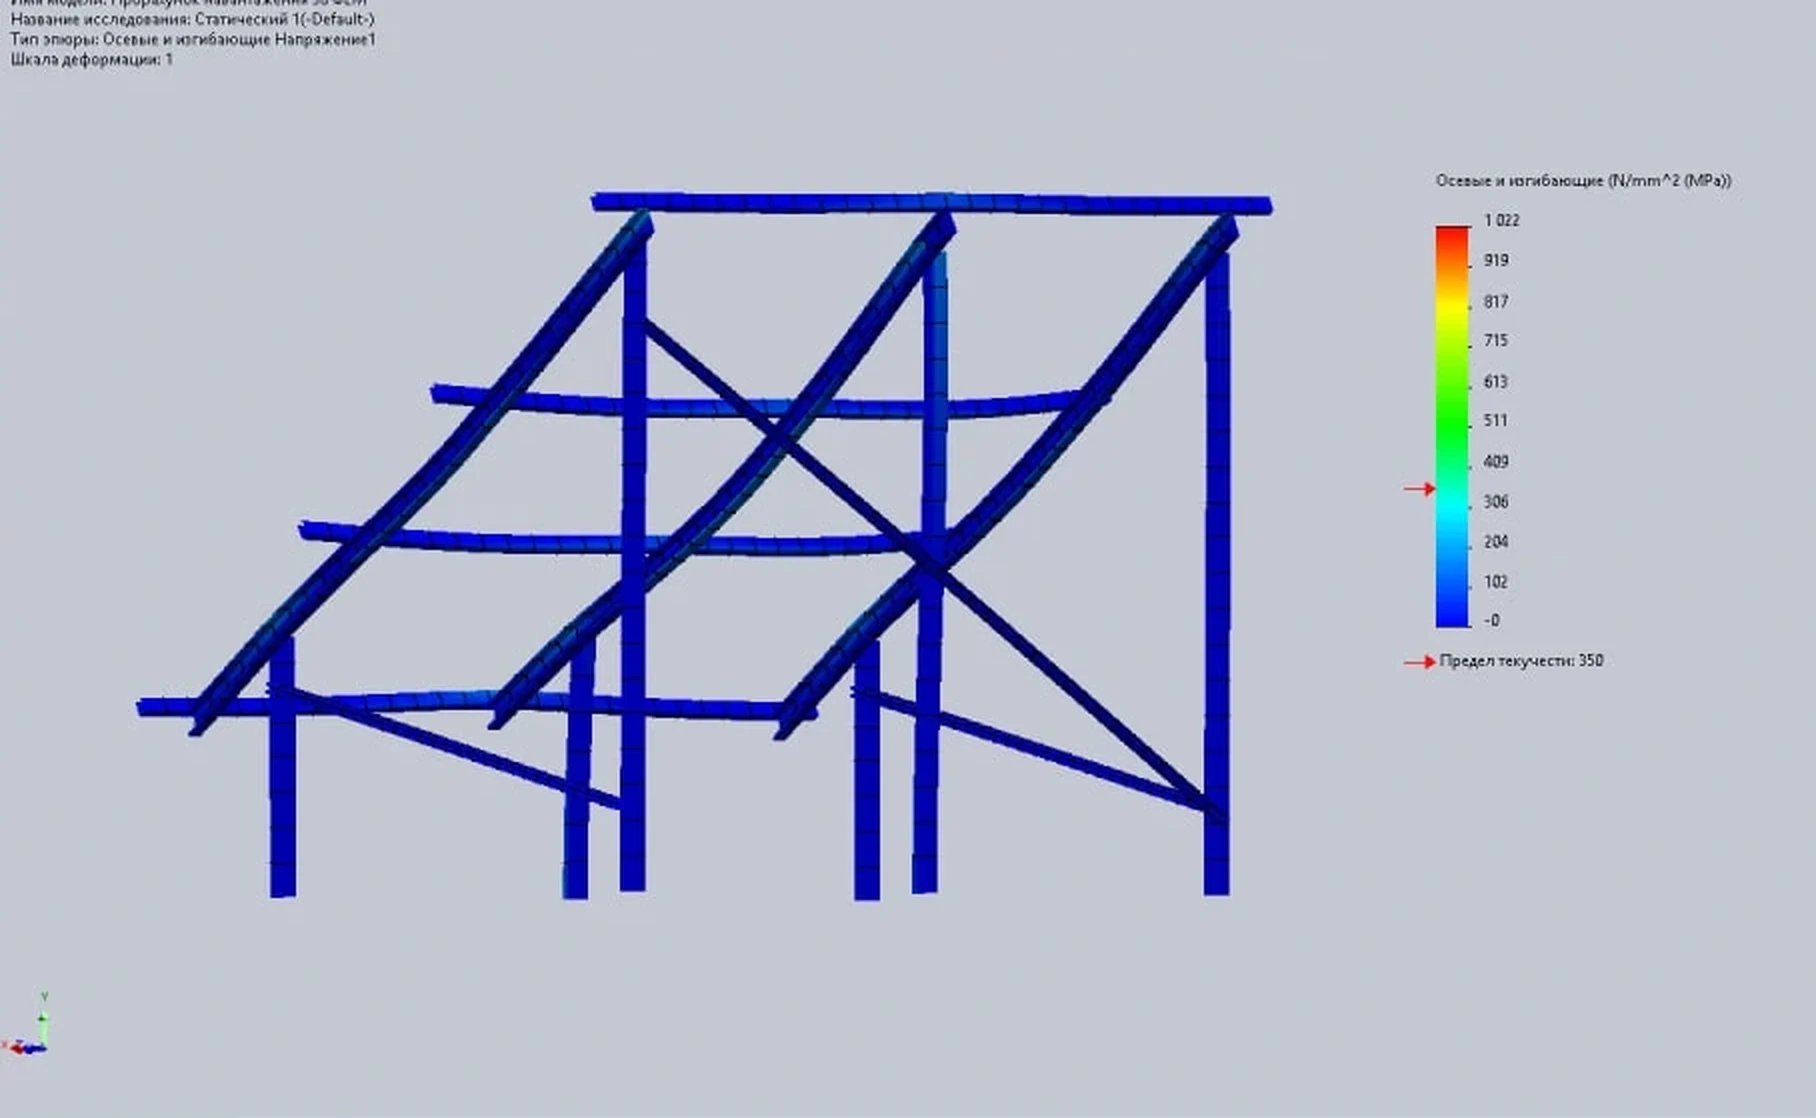
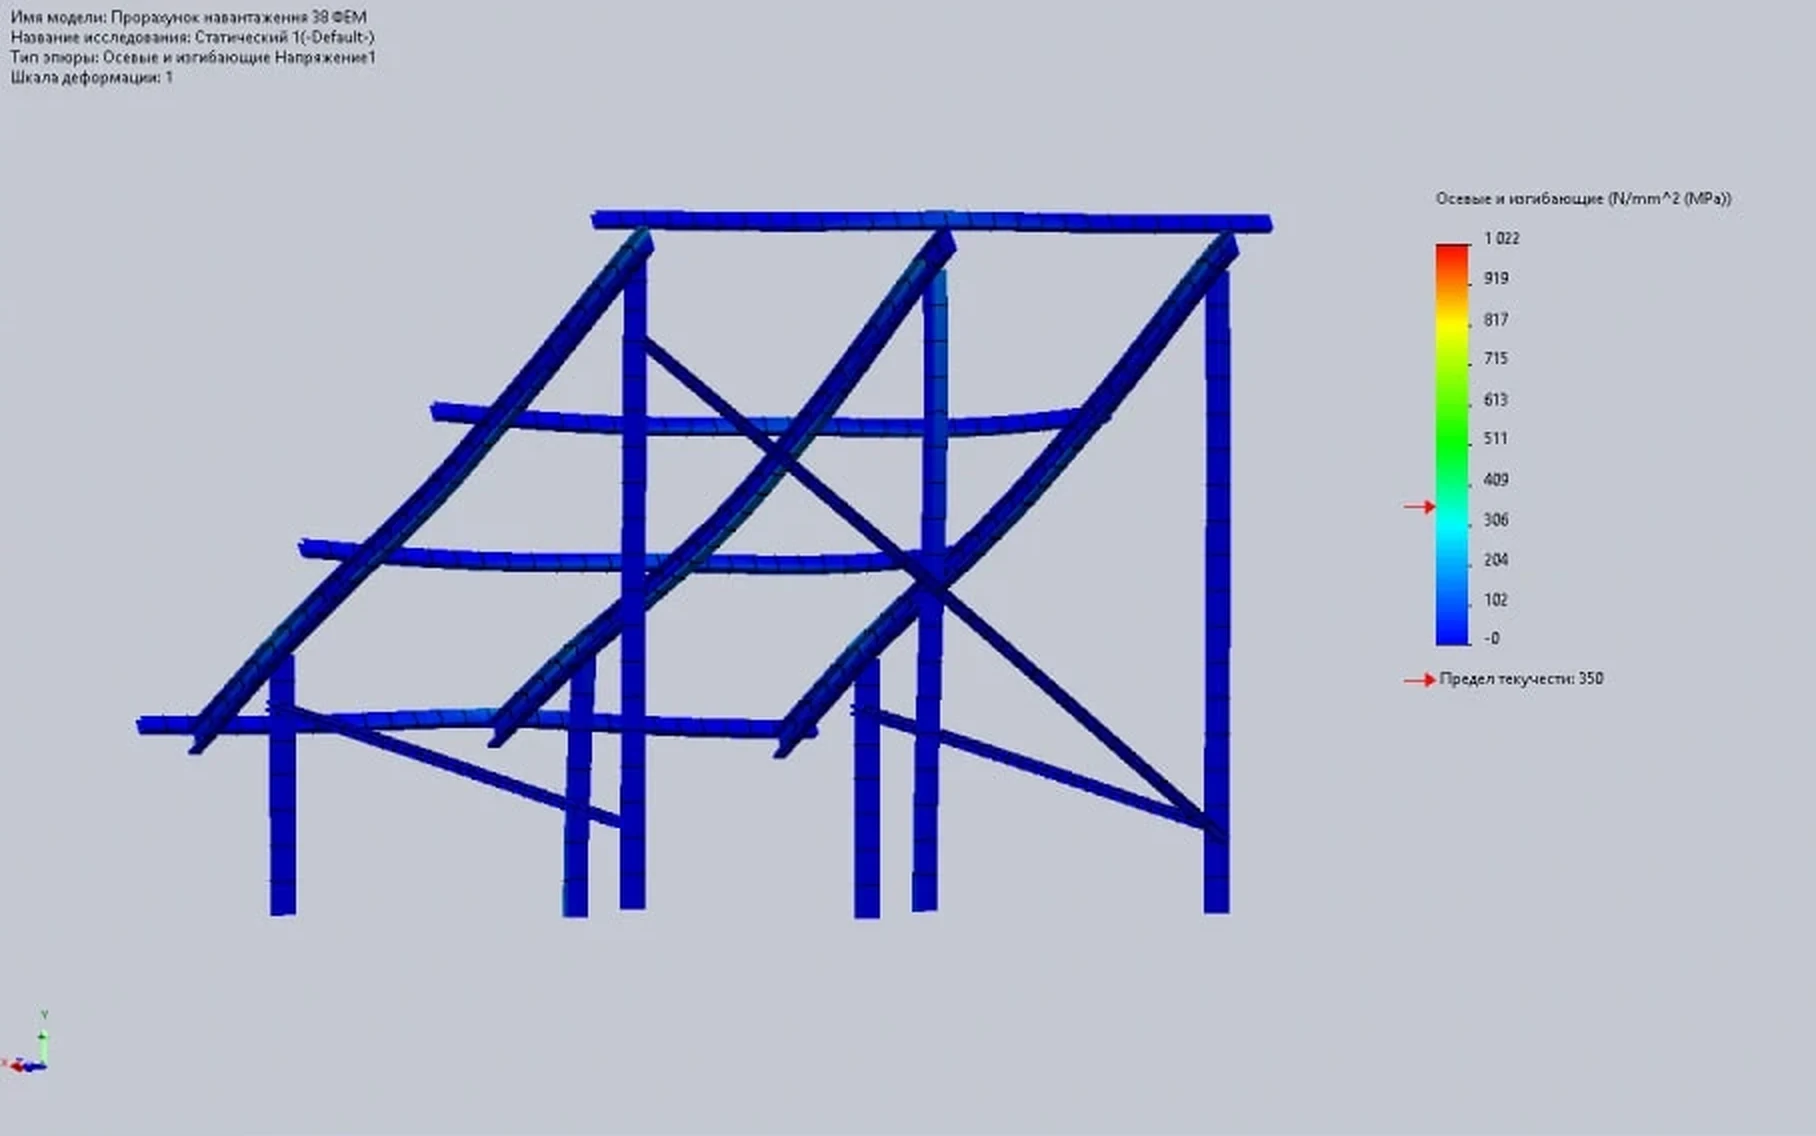
fix(visualization): знято два цехових фото з рейлу рендерів
fix(stage): епюра навантаження видно повністю — кроп не ріже підпис моделі,
наїзд розвернуто 0.97→1 замість 1.06→1 (overflow:hidden зрізав боки)

diff --git a/site/visualization.html b/site/visualization.html
@@ -140,9 +140,9 @@
         <div class="sheet-head" data-reveal>
             <div>
                 <div class="sheet-head__eyebrow">02 / SHOWREEL</div>
-                <h2 class="sheet-head__title">Двадцять виробів —<em>у студійному світлі.</em></h2>
+                <h2 class="sheet-head__title">Вісімнадцять виробів —<em>у студійному світлі.</em></h2>
             </div>
-            <div class="sheet-head__meta"><strong>DWG-303</strong><br>SELECTED WORK<br>20 FRAMES</div>
+            <div class="sheet-head__meta"><strong>DWG-303</strong><br>SELECTED WORK<br>18 FRAMES</div>
         </div>
 
         <div class="reel" data-reveal>
@@ -214,17 +214,9 @@
                 <img src="assets/services/reel/traktor.webp" alt="Вузол трактора — рендер KeyShot" width="1024" height="768" loading="lazy" decoding="async">
                 <figcaption class="reel__meta"><strong>Вузол трактора</strong><span>ПРОМИСЛОВЕ</span></figcaption>
             </figure>
-            <figure class="reel__cell" data-gallery="reel" data-title="Стілець металевий">
-                <img src="assets/services/reel/stilchyk.webp" alt="Стілець металевий — рендер KeyShot" width="1022" height="1280" loading="lazy" decoding="async">
-                <figcaption class="reel__meta"><strong>Стілець металевий</strong><span>ПРОМИСЛОВЕ</span></figcaption>
-            </figure>
             <figure class="reel__cell reel__cell--wide" data-gallery="reel" data-title="Труба вихлопної системи">
                 <img src="assets/services/reel/truba.webp" alt="Труба вихлопної системи — рендер KeyShot" width="1024" height="768" loading="lazy" decoding="async">
                 <figcaption class="reel__meta"><strong>Труба вихлопної системи</strong><span>ПРОМИСЛОВЕ</span></figcaption>
-            </figure>
-            <figure class="reel__cell" data-gallery="reel" data-title="Декоративна скульптура «Лев»">
-                <img src="assets/services/reel/lev.webp" alt="Декоративна скульптура «Лев» — рендер KeyShot" width="1280" height="1166" loading="lazy" decoding="async">
-                <figcaption class="reel__meta"><strong>Декоративна скульптура «Лев»</strong><span>ПРОМИСЛОВЕ</span></figcaption>
             </figure>
         </div>
 

diff --git a/site/js/services.js b/site/js/services.js
@@ -120,10 +120,13 @@
                 tl.to(prev, { opacity: 0, duration: FADE }, at);
                 tl.fromTo([shot, card, over].filter(Boolean), { opacity: 0 }, { opacity: 1, duration: FADE }, at);
                 /* аркуш не наїжджає — він лягає на стіл, це робить addPlot */
-                if (!plot) tl.fromTo(shot, { scale: 1.06 }, { scale: 1, duration: FADE + HOLD }, at);
+                /* Масштаб іде знизу вгору (0.97 → 1), а не згори вниз.
+                   При 1.06 кадр вилазив за межі сцени, а .stage__viewport має
+                   overflow:hidden — боки картинки зрізало на весь час наїзду. */
+                if (!plot) tl.fromTo(shot, { scale: 0.97 }, { scale: 1, duration: FADE + HOLD }, at);
                 if (card) tl.fromTo(card, { y: 26 }, { y: 0, duration: FADE }, at);
             } else {
-                tl.fromTo(shot, { scale: 1.03 }, { scale: 1, duration: HOLD }, at);
+                tl.fromTo(shot, { scale: 0.985 }, { scale: 1, duration: HOLD }, at);
             }
 
             /* промальовування технічних ліній накладки */

diff --git a/site/services.html b/site/services.html
@@ -192,7 +192,7 @@
             </figure>
             <figure class="stage__shot" data-shot="1">
                 <img src="assets/services/renders/stage-02-ses-fea.webp"
-                     alt="Епюра осьових і згинальних напружень каркаса сонячної станції у SolidWorks Simulation" width="1816" height="1118" loading="lazy" decoding="async">
+                     alt="Епюра осьових і згинальних напружень каркаса сонячної станції у SolidWorks Simulation" width="1816" height="1136" loading="lazy" decoding="async">
             </figure>
             <figure class="stage__shot stage__shot--sheet" data-shot="2">
                 <!-- Аркуш друкується плотером: шторка кольору паперу сходить донизу

diff --git a/site/js/services-data.js b/site/js/services-data.js
@@ -42,9 +42,7 @@
                 'assets/services/reel/verstak.webp',
                 'assets/services/reel/dveri.webp',
                 'assets/services/reel/traktor.webp',
-                'assets/services/reel/stilchyk.webp',
-                'assets/services/reel/truba.webp',
-                'assets/services/reel/lev.webp'
+                'assets/services/reel/truba.webp'
             ]
         },
         'fea-study': {

diff --git a/site/service-worker.js b/site/service-worker.js
@@ -1,5 +1,5 @@
 /* service-worker.js — kodesignengineer v2 (offline-first for shell) */
-const CACHE = 'ko-engineer-v2-2026.23';
+const CACHE = 'ko-engineer-v2-2026.26';
 const SHELL = [
     '/',
     '/index.html',

diff --git a/_LOG.md b/_LOG.md
@@ -375,3 +375,27 @@ CACHE `.20` → `.23`.
   сторінок портфоліо. Це прямо суперечить вимозі Lighthouse 90+. Просилося б
   прогнати їх у webp, але це окрема задача й окремий ризик.
 - `blog/index.html` досі має стару випадайкову навігацію.
+
+## 2026-09-20 — візуалізація: два фото геть; епюра: видно повністю
+
+**Фото зі сторінки візуалізації.** `stilchyk.webp` і `lev.webp` були підписані як
+«рендер KeyShot», а насправді це цехові фото — металевий стілець і лазерне
+різання левів. Знято з `visualization.html`, з галереї `reel` у
+`services-data.js`, файли видалено. Лічильники на сторінці приведено у
+відповідність: «Двадцять виробів» → «Вісімнадцять», `20 FRAMES` → `18 FRAMES`
+(інакше заголовок брехав би на два).
+
+**Епюра навантаження не вміщалась цілком — дві незалежні причини.**
+
+1. Мій власний кроп різав перший рядок підпису моделі. Виміряв попіксельно:
+   смуга меню закінчується на y≈88, підпис «Имя модели / Тип эпюры» починається
+   з y≈94, іконки панелі — з x≈554. Кроп зсунуто на y=90, а іконки перекрито не
+   пласкою заливкою, а перенесеним шматком чистого тла нижче: тло вікна
+   SolidWorks має градієнт, і пляма одним кольором читалась би як латка.
+2. Кадр наїжджав зі `scale: 1.06 → 1`, а `.stage__viewport` має
+   `overflow: hidden` — тож усю анімацію наїзду боки картинки були зрізані.
+   Розвернуто на `0.97 → 1`: кадр тепер виростає в розмір, а не вилазить за
+   межі. Перевірено на п'яти точках таймлайну — на кожній кадр вужчий за рамку
+   (−6…−17px), тобто не зрізається ніде.
+
+CACHE `.23` → `.26`. Задеплоєно, перевірено на живому домені.
